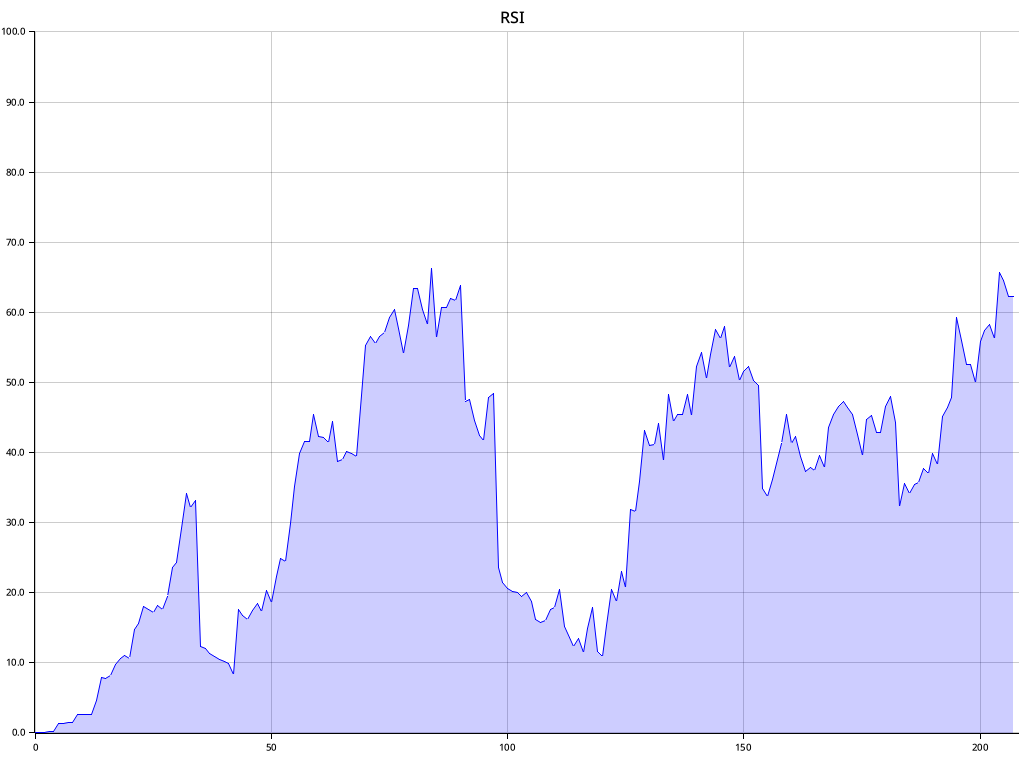
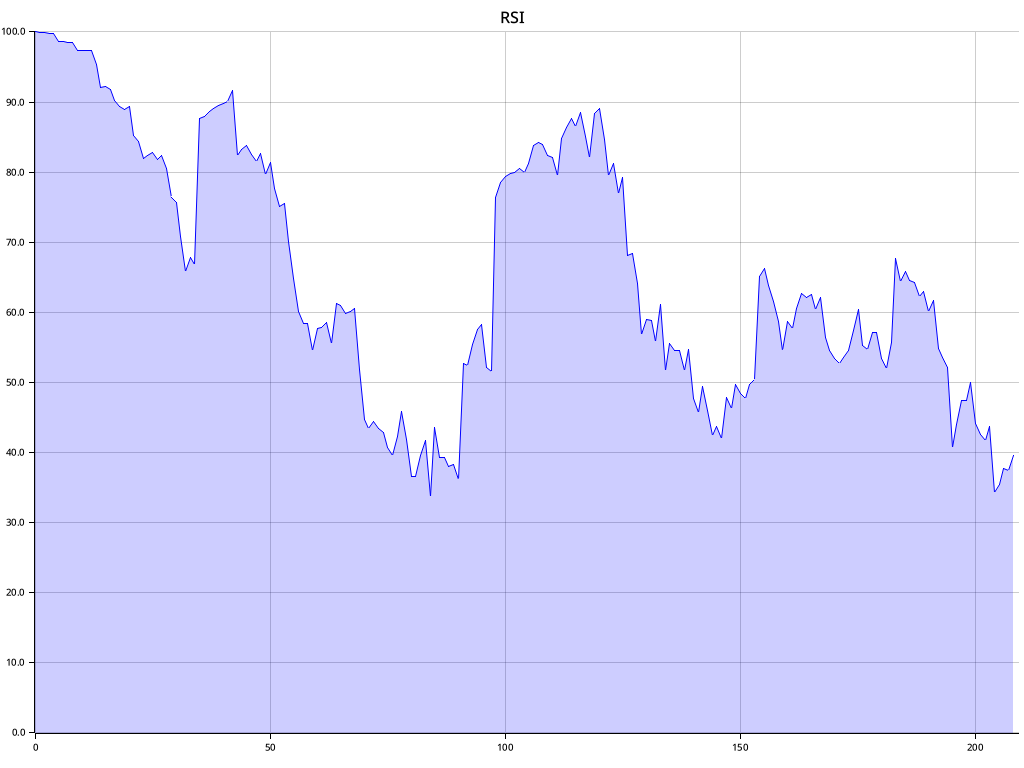
fix rsi calculation by fixing diff

diff --git a/src/utils.rs b/src/utils.rs
@@ -16,7 +16,7 @@ pub fn convert_historical(data: &Vec<historical::Bar>) -> Data {
 
 /// Get the relative strength index value for each data point
 pub fn get_rsi_values(data: &Data) -> Data {
-    let diffs = get_differences(&data);
+    let diffs = get_differences(data);
 
     let mut upwards = Vec::new();
     let mut downwards = Vec::new();
@@ -40,9 +40,11 @@ pub fn get_rsi_values(data: &Data) -> Data {
     let rsi_values = upward_avg
         .iter()
         .zip(downward_avg.iter())
-        .map(|(up, down)| 100. * up / (up + down))
+        .map(|(up, down)| {
+            let rs = up / down;
+            100. - (100. / (1. + rs))
+        })
         .collect();
-    println!("RSI values {rsi_values:?}");
     rsi_values
 }
 
@@ -67,9 +69,9 @@ pub fn ema(data: &Data, alpha: f64) -> Data {
 
         let previous = {
             let (previous_index, overflowed) = index.overflowing_sub(1);
-
             if overflowed {
-                0.
+                averages.push(*value * alpha);
+                continue;
             } else {
                 averages[previous_index]
             }
@@ -77,7 +79,7 @@ pub fn ema(data: &Data, alpha: f64) -> Data {
         let avg = *value * alpha + previous * (1. - alpha);
         averages.push(avg);
     }
-    println!("EWMs {averages:?}");
+    println!("EMA: {averages:?}");
     averages
 }
 
@@ -94,7 +96,7 @@ pub fn get_differences(data: &Data) -> Data {
                 data[previous_index]
             }
         };
-        diff.push(previous - value)
+        diff.push(value - previous)
     }
 
     diff
@@ -210,13 +212,16 @@ pub fn rsi_chart(data: &Data) -> Result<(), Box<dyn std::error::Error>> {
 
     chart.configure_mesh().light_line_style(WHITE).draw()?;
 
-    chart.draw_series(AreaSeries::new(
-        data.iter()
-            .enumerate()
-            .map(|(index, value)| (index as u32, *value as f32)),
+    chart.draw_series(
+        AreaSeries::new(
+            data.iter()
+                .enumerate()
+                .map(|(index, value)| (index as u32, *value as f32)),
             0.0,
             BLUE.mix(0.2),
-    ).border_style(BLUE))?;
+        )
+        .border_style(BLUE),
+    )?;
 
     root.present()
         .expect("unable to write chart to file, perhaps there is no directory");
